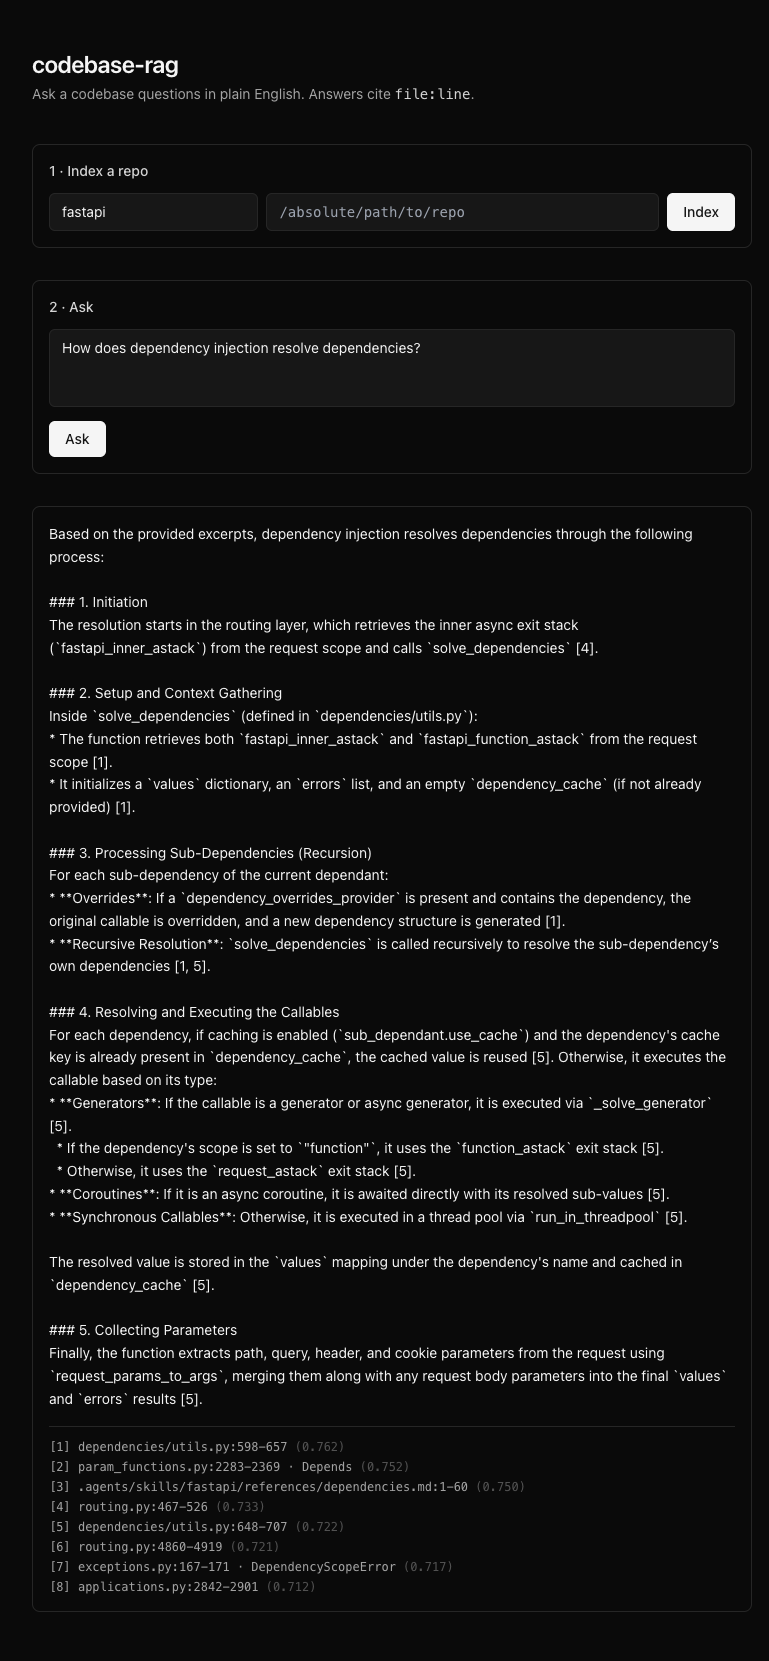
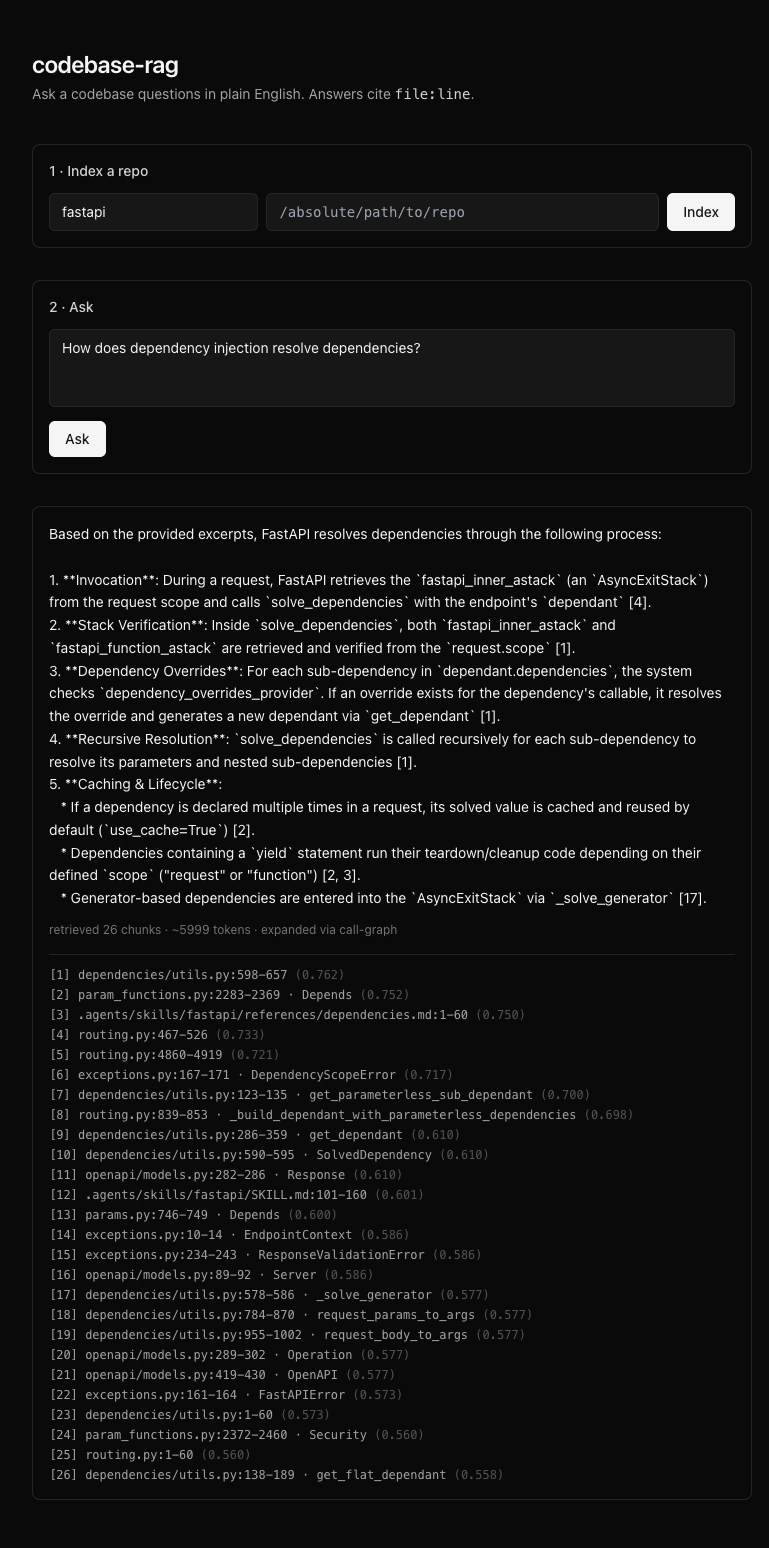
frontend+docs: surface retrieval stats, graph demo
- page.tsx/api.ts: 'retrieved N chunks · ~T tokens · expanded via
  call-graph' line under the answer (uses honest post-budget sent count)
- README: graph-aware architecture, measured token-efficiency table
  (~54% vs naive graph expansion), roadmap updates
- docs/demo.png: live graph-aware run over FastAPI source
- gitignore the .graph sidecar

diff --git a/frontend/app/page.tsx b/frontend/app/page.tsx
@@ -1,7 +1,7 @@
 "use client";
 
 import { useState } from "react";
-import { ingest, query, type Citation } from "@/lib/api";
+import { ingest, query, type Citation, type RetrievalStats } from "@/lib/api";
 
 export default function Home() {
   const [repo, setRepo] = useState("");
@@ -9,6 +9,7 @@ export default function Home() {
   const [question, setQuestion] = useState("");
   const [answer, setAnswer] = useState("");
   const [citations, setCitations] = useState<Citation[]>([]);
+  const [retrieval, setRetrieval] = useState<RetrievalStats | null>(null);
   const [status, setStatus] = useState<string | null>(null);
   const [error, setError] = useState<string | null>(null);
   const [busy, setBusy] = useState(false);
@@ -37,6 +38,7 @@ export default function Home() {
       const r = await query(repo, question);
       setAnswer(r.answer);
       setCitations(r.citations);
+      setRetrieval(r.retrieval);
     } catch (e) {
       setError((e as Error).message);
     } finally {
@@ -113,6 +115,12 @@ export default function Home() {
           <p className="whitespace-pre-wrap text-sm leading-relaxed text-neutral-100">
             {answer}
           </p>
+          {retrieval && (
+            <p className="mt-3 text-xs text-neutral-500">
+              retrieved {retrieval.sent} chunks · ~{retrieval.est_tokens} tokens
+              {retrieval.graph_used ? " · expanded via call-graph" : ""}
+            </p>
+          )}
           {citations.length > 0 && (
             <ul className="mt-4 space-y-1 border-t border-neutral-800 pt-3">
               {citations.map((c, i) => (

diff --git a/frontend/lib/api.ts b/frontend/lib/api.ts
@@ -9,9 +9,19 @@ export type Citation = {
   score: number;
 };
 
+export type RetrievalStats = {
+  seeds: number;
+  graph_neighbors: number;
+  after_dedup: number;
+  sent: number;
+  est_tokens: number;
+  graph_used: boolean;
+};
+
 export type QueryResponse = {
   answer: string;
   citations: Citation[];
+  retrieval: RetrievalStats | null;
 };
 
 export type IngestResponse = {

diff --git a/README.md b/README.md
@@ -17,15 +17,39 @@ Runs **fully free & offline**: local embeddings + a local LLM (Ollama), or Gemin
 ## How it works
 
 ```
-question ──▶ [embed: bge-small] ──▶ Chroma vector search ──▶ top-k code chunks
-                                                                   │
-                          answer + file:line citations ◀── [ LLM ] ◀┘
-                                                    (Ollama local · or Gemini free)
+                        ┌─ Chroma vector search ─── seed chunks ─┐
+question ──▶ [embed] ──▶│                                        ├─▶ dedup ─▶ token
+                        └─ code graph 1-hop expansion ─ neighbors┘   budget   budget
+                                (callers + callees)                     │
+                            answer + file:line citations ◀── [ LLM ] ◀──┘
+                                              (Ollama local · or Gemini free)
 ```
 
-1. **Ingest** — walk a repo, chunk it *AST-aware* (functions/classes via tree-sitter, not blind line splits), embed each chunk, store in Chroma.
-2. **Retrieve** — embed the question, cosine-search the repo's collection for the most relevant chunks.
-3. **Generate** — feed those chunks to the LLM with a strict "cite every claim, don't guess" prompt.
+1. **Ingest** — walk a repo, chunk it *AST-aware* (functions/classes via tree-sitter). Embed each chunk into Chroma **and** build a code graph (SQLite): an edge means "this chunk references a symbol that chunk defines".
+2. **Retrieve (graph-aware)** — vector-search for seed chunks, then expand 1 hop along the graph to pull each seed's **callees/definitions and callers** — so an answer about a function also sees what it calls and what calls it, not just text-similar code.
+3. **Compress (token-efficient)** — semantic dedup + a fixed token budget (see below) keep the prompt small; graph neighbors *replace* redundant vector hits rather than inflating it.
+4. **Generate** — feed the assembled context to the LLM with a strict "cite every claim, don't guess" prompt.
+
+## Token efficiency
+
+Context is treated as a **fixed budget**, not "top-k whatever". Three levers, following the RAG context-compression literature:
+
+- **Semantic dedup** — vector hits often repeat (2–3 of the top-10 say the same thing). A three-tier check (exact containment · same-file line overlap · token-overlap ≥ 0.72) collapses them.
+- **Hard token budget** — candidates are added by descending relevance until `CONTEXT_TOKEN_BUDGET` (~6k) is hit; the top hit always survives.
+- **Neighbor head-trim** — graph-only neighbors contribute their signature + first lines, not the whole body.
+
+Measured on FastAPI's own source (question: *"how does dependency injection resolve dependencies?"*):
+
+| Stage | ~tokens | chunks |
+|---|--:|--:|
+| naive vector top-12 | 5,719 | 12 |
+| **naive graph expansion** (+22 neighbors, full text) | **13,065** | 34 |
+| + semantic dedup | 9,962 | 28 |
+| **+ budget + head-trim (shipped)** | **5,999** | 26 |
+
+→ **~54% fewer tokens than naive graph expansion**, while still delivering 26 structurally-relevant chunks (call-graph neighbors included) in about the same budget as plain vector top-12. Graph context, essentially for free.
+
+The `/query` response reports `{seeds, graph_neighbors, after_dedup, est_tokens, graph_used}`, and the UI shows *"retrieved N chunks · ~T tokens · expanded via call-graph"* so the effect is visible.
 
 ## Stack
 
@@ -35,7 +59,8 @@ question ──▶ [embed: bge-small] ──▶ Chroma vector search ──▶ t
 | Chunking | tree-sitter (AST-aware) | ✅ |
 | Embeddings | `bge-small-en-v1.5` (sentence-transformers, local) | ✅ |
 | Vector DB | Chroma (embedded, on-disk) | ✅ |
-| Answer LLM | Ollama `qwen2.5-coder:7b` **or** Gemini `2.0-flash` free tier | ✅ |
+| Code graph | SQLite (stdlib — no dependency) | ✅ |
+| Answer LLM | Ollama `qwen2.5-coder:7b` **or** Gemini free tier | ✅ |
 | Frontend | Next.js 15 + Tailwind | ✅ |
 
 ---
@@ -107,7 +132,9 @@ This is a **single-user, localhost developer tool** — treat that as the trust 
 
 ## Roadmap
 
-- [ ] **Graph-aware retrieval** — fuse call-graph proximity (callers/callees) with vector similarity for sharper context.
+- [x] **Graph-aware retrieval** — fuse call-graph proximity (callers/callees) with vector similarity for sharper context.
+- [x] **Token-efficient context** — semantic dedup + fixed token budget + neighbor head-trim.
+- [ ] Precise call-site edge resolution (scope-aware, beyond name matching) to drop the few over-connected edges.
 - [ ] Reranker (`bge-reranker-base`) to cut noise before the LLM.
 - [ ] Streaming answers.
 - [ ] Clickable citations that open the exact line.